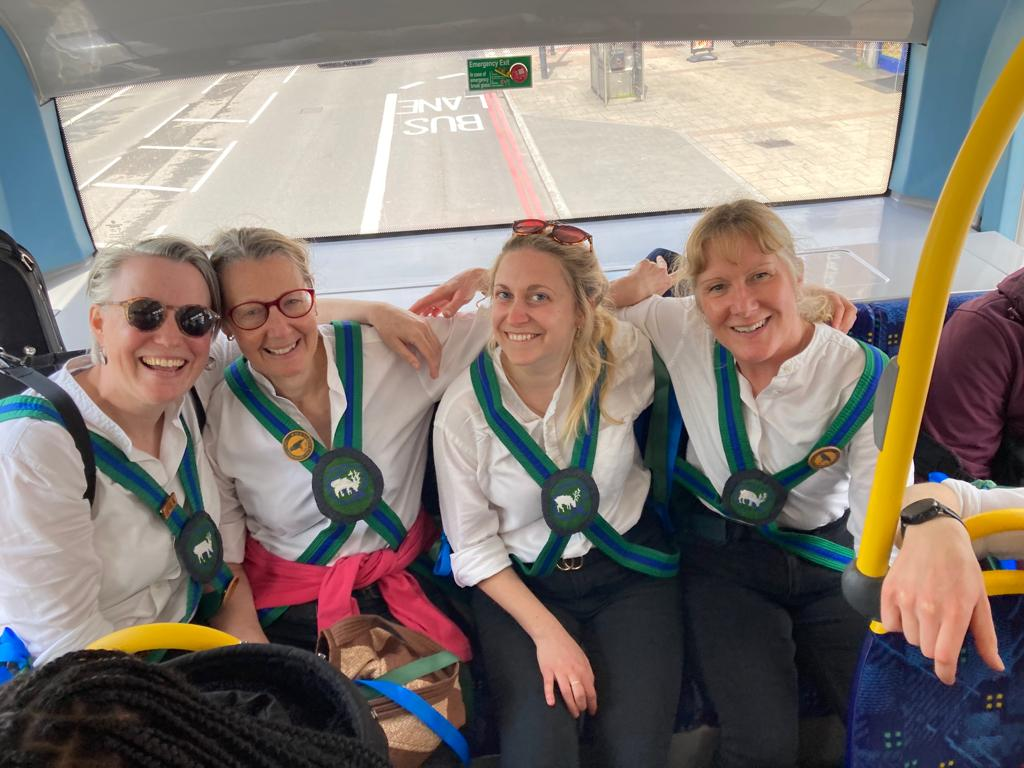
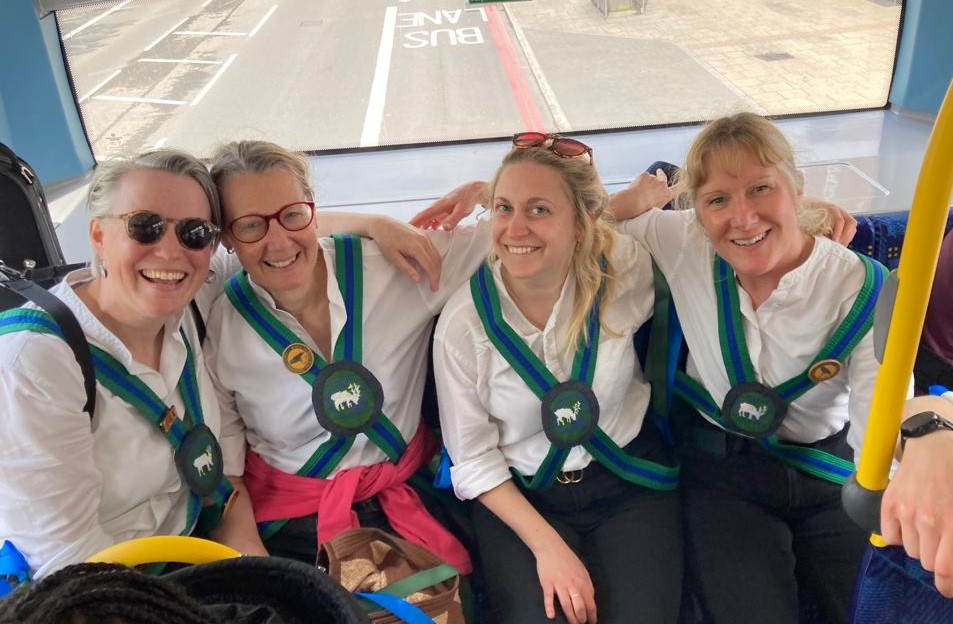
Add pics to history page

diff --git a/history.html b/history.html
@@ -40,6 +40,7 @@
 
   <main class="wrapper content-main">
     <h1>Our History</h1>
+    <img class="history-img float-right top" src="img/quaggy-marathon.jpg" alt="Quaggy Morris assembled" />
     <h2>How Quaggy Morris Was Born</h2>
     <p>Nancy, Barry, Steph, Harry, Martha and Anna were sitting in a field. It was early May Folk Camp. Stilton and wine stoked thoughts to turn to the morris shaped hole in our lives. It was a chat incognito because Anna's partner has a phobia of morris dancing and was dead against it.</p>
     <p>Barry had recently moved to Lee, South East London and had just folded his old side The Mad Hatters. He was ready for a new challenge and here was <i>almost</i> enough people to start a side.</p>
@@ -48,6 +49,7 @@
     
     <h2>Quaggy Style...</h2>
     <p>Finding the right badge and kit design was the next challenge. Whilst endlessly searching images relating to the river Quaggy, Nancy stumbled on the modern day legend of the Lewisham Nature Man. Unique White Harts were popping up across the Borough on wastelands and on the Quaggy river walls. To this day, no-one knows who this fantastic artist is. During lockdown, a deer hunter made it their mission to find as many white harts and <a class="text-link" href="https://qwag.org.uk/stags-of-the-river-quaggy-lewisham-natureman/" target="_blank">record them for posterity</a> as several had already been covered over.</p>
+    <img class="history-img float-left" src="img/stag1.jpg" alt="A stag mural by Lewisham Natureman" />
     <p>Nancy based the design for the badge on one of the white harts drinking from the River Quaggy. In the final design the white hart is set within a Q for Quaggy representing the river from which it drinks.</p>
     <p>Once the initial badge had been hand embroidered, each member was set the task of embroidering their own badge based on the original design for the centre of their baldricks. A creative use of a judo belt formed the baldricks without the need for too much sewing.</p>
     <p>As a mixed side we wanted to be able to have one kit that we could all wear. Having admired <a class="text-link" href="https://www.crookmorris.org.uk/" target="_blank">Crook Morris</a> (a side from the lakes) in their black jean breaches and odd socks, the team set to create something along the same lines with odd socks in river blue and green.</p>
@@ -56,11 +58,9 @@
 
     <h2>Making It Happen</h2>
     <p>Lockdown could easily have permanently stopped us in our tracks. We'd been dancing for less than a year. But, we are a determined bunch and found ways to carry on. When allowed, we met together on Shooters Hill and practiced with super long bamboo sticks. A bit unwieldy they were too!</p>
+    <img class="history-img float-right" src="img/quaggy-bus.jpg" alt="Members of Quaggy Morris on the bus" />
     <p>Covid saw the permanent closure of our first practice venue, and after lockdown we used St Lawrence church hall but were eventually won over by the newly renovated dance floor attached to the Fellowship Inn, Bellingham.  Obviously, what better venue can you have for a Morris side especially when half price ale night happens to fall on practice night.</p>
     <p>Meanwhile two of our side had needed to go and have babies and another do A-levels and two more dancers Siggy and Norma were recruited. A Melodeon player, Christine, was recruited from Selfolk and finally we were ready(ish) for our first dance out in June 22!</p>
-
-    <!-- <h2>Our community</h2>
-    <p>e.g. links to other local sides (which ones?) and the <a class="text-link" href="https://www.morrisfed.org.uk/" target="_blank">Morris Federation</a></p> -->
   </main>
 
   <footer>

diff --git a/css/styles.css b/css/styles.css
@@ -414,6 +414,40 @@ footer {
   }
 }
 
+/* ------- History page --------------- */
+
+.history-img {
+  width: 100%;
+  border-radius: 5px;
+}
+
+@media (min-width:500px) {
+  .history-img {
+    width: 350px;
+    margin-bottom: 10px;
+  }
+
+  .top {
+    margin-top: 20px;
+  }
+
+  .float-left {
+    float: left;
+    margin-right: 20px;
+  }
+
+  .float-right {
+    float: right;
+    margin-left: 20px;
+  }
+}
+
+@media (min-width:800px) {
+  .history-img {
+    width: 500px;
+  }
+}
+
 /* ------- Events page --------------- */
 
 .events-headline {
